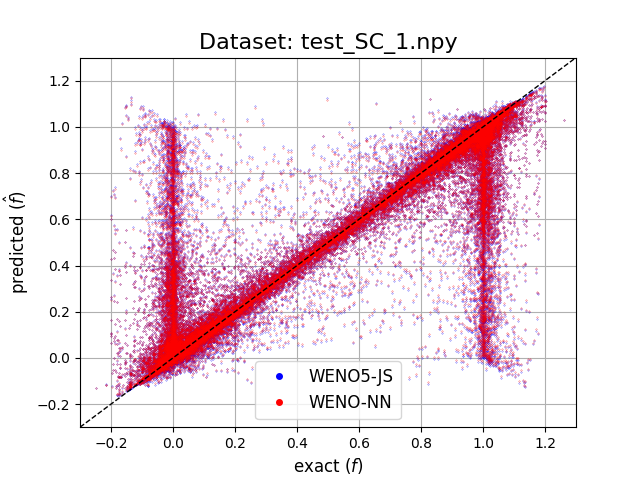
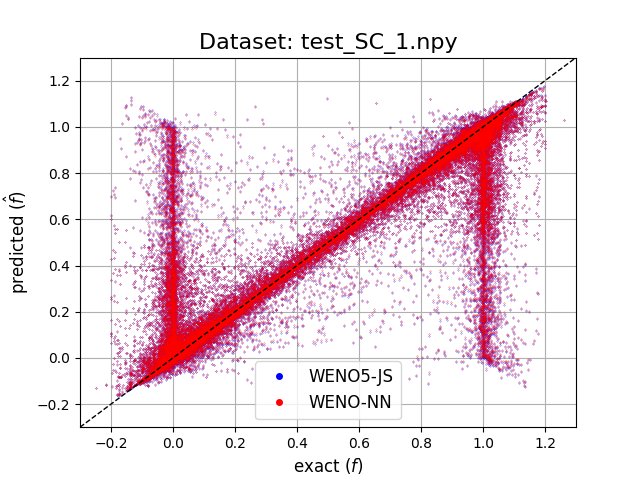
Added batch.py for TV & error recording

diff --git a/ML_model/batch.py b/ML_model/batch.py
@@ -1,0 +1,105 @@
+### Modules ###
+import numpy as np 
+import matplotlib.pyplot as plt 
+
+from train_model import *
+from advection_test import test_WENO_NN
+
+def write_log(file, err_test, is_saved, model_save):
+    if is_saved:
+        file.write("##### SAVED model: %s #####\n"%model_save)
+
+    err_test = (err_sin, TV_sin), (err_sq, TV_sq)    
+
+    file.write("Advection (sin)\n")
+    file.write("rmse: %.5e\n"%err_sin)
+    file.write("TV: %.5f\n"%TV_sin)
+
+    file.write("Advection (square)\n")
+    file.write("rmse: %.5e\n"%err_sq)
+    file.write("TV: %.5f\n"%TV_sq)
+
+    if is_saved:
+            file.write("####### SAVED model END #######\n")
+
+    file.write("\n\n")
+
+
+
+if __name__ == "__main__":
+    n_epochs = 10
+    idx = 0
+    model_save = 0
+
+    log_file = "test_log.txt"
+    file = open(log_file, "w")
+
+    data_folder = "training_data/"
+    data_file = "data_github.npy"
+    #data_file = "test_SC_1.npy"
+    f_bar, y = get_dataX(data_folder + data_file)
+
+    err_list = []
+    TV_list = []
+    
+    total_test = 100
+    for i in range(total_test):
+        model, model_id, data_func = get_model_SC()
+        X = data_func(f_bar)
+        # model traning
+        history = model.fit(X, y, batch_size=80, epochs=n_epochs, validation_split=0.2)
+
+        mse_train = history.history["root_mean_squared_error"]
+
+        model_folder = "test_batch/"
+        model_temp = "model_batch_temp.bin"
+        path_temp = model_folder + model_temp
+
+        # save temp
+        save_model(path_temp, model, model_id)
+
+        # test temp
+        (err_sin, TV_sin), (err_sq, TV_sq) = test_WENO_NN(path_temp)
+
+        err_list += [err_sq]
+        TV_list += [TV_sq]
+
+        # Save condition
+        # WENO5-JS 
+        # err_sin: 6.241e-05
+        # TV_sin: 3.9996
+
+        # err_sq: 0.11648111689410975
+        # TV_sq: 2.006
+
+        #is_sin = (err_sin < 4e-2 and TV_sin < 4.2)
+        is_square = err_sq < 0.1165 
+        is_TVB = (TV_sin < 4.1 and TV_sq < 2.03)
+
+        # 0.2400 for data_github
+        is_trained = mse_train[-1] < 0.2400 
+
+        if True: #is_square and is_TVB and is_trained:
+            model_save = "model_batch_%i.bin"%idx
+            path_save = model_folder + model_save
+            save_model(path_save, model, model_id)
+            idx += 1
+            is_saved = True
+        else:
+            is_saved = False
+
+        err_test = (err_sin, TV_sin), (err_sq, TV_sq)
+
+
+        write_log(file, err_test, is_saved, model_save)
+        file.flush()
+
+    file.close()
+
+
+    TV_info = np.array([err_list, TV_list])
+    TV_file = "git_4_lamb_3.npy"
+    TV_path = model_folder + TV_file
+
+    with open(TV_path, 'wb') as f:
+        np.save(f, TV_info)

diff --git a/ML_model/train_model.py b/ML_model/train_model.py
@@ -122,11 +122,11 @@ def get_model_SC(nf1=5, nf2=5):
     # Neural Network
     bias_init = tf.keras.initializers.RandomNormal(mean=0.0, stddev=0.005, seed=None)
 
-    l2_lambda = 6 + 10*np.random.rand()   
+    l2_lambda = 3
 
-    np1 = np.random.randint(3) + 3
-    np2 = np.random.randint(3) + 3
-    np3 = np.random.randint(3) + 3
+    np1 = 4 #np.random.randint(3) + 3
+    np2 = 4 #np.random.randint(3) + 3
+    np3 = 4 #np.random.randint(3) + 3
 
 
     NN_h1 = layers.Dense(np1, activation="relu",\
@@ -327,8 +327,8 @@ def plot_history(history):
 
 if __name__ == "__main__":
     folder = "training_data/"
-    #file_data = "data_github.npy"
     file_data = "data_github.npy"
+    #file_data = "data_github.npy"
     f_bar, y = get_dataX(folder+file_data)
     
     model, model_id, data_func = get_model_SC()

diff --git a/ML_model/view_scatter.py b/ML_model/view_scatter.py
@@ -36,11 +36,10 @@ def read_model_SC(file):
         # weight
         weight = readline(file, np.float32, n_w)
         weight = weight.reshape(dim)
-        print(weight)
+
         # bias
         if nW == 2:
             bias = readline(file, np.float32, dim[1])
-            print(bias)
         else:
             bias = []
 
@@ -180,7 +179,7 @@ if __name__ == "__main__":
     model_path = "model_batch_10.bin"
     model_id, weights, data_func = read_model(model_path)
     X = data_func(f_bar)
-'''
+
     f_NN = model_predict(model_id, weights, X)
     
     plt.plot(y, f_NN, "or", markersize=0.2, label="WENO-NN", alpha=1)
@@ -206,4 +205,3 @@ if __name__ == "__main__":
     
     #plt.savefig("test_scatter_1e-2.png")
     plt.savefig("scatter_f.png")
-'''

diff --git a/ML_model/advection_test.py b/ML_model/advection_test.py
@@ -296,8 +296,6 @@ def test_WENO_NN(model_path):
 def view_WENO_NN(model_path, T):
     model_info = read_model(model_path)
 
-    test_WENO5_JS()
-
     print("Testing... (sin)")
     err_sin, TV_sin = view_adv_NN(model_info, exact_sin, T)
     print()
@@ -307,9 +305,10 @@ def view_WENO_NN(model_path, T):
     print()
 
 if __name__ == "__main__":
-    model_folder = "test_batch/batch4/"
-    model_name = "model_batch_10.bin"
+    model_folder = "test_batch/git_3_lamb_6/"
+    model_name = "model_batch_11.bin"
     model_path = model_folder + model_name
 
+    test_WENO5_JS()
     view_WENO_NN(model_path, 50)
 

diff --git a/FDM/main.cpp b/FDM/main.cpp
@@ -23,7 +23,7 @@ int main(int argc, char *argv[])
     Solver solver = Solver(nu, xlim, nx);
 
     // WENO-NN
-    solver.init_NN("../ML_model/model_batch_10.bin");
+    solver.init_NN("../ML_model/test_batch/git_3_lamb_3/model_batch_82.bin");
     // test_model.bin 1e-100
     // test_model_SC1.bin 1e-1
     solver.run(CFL, T);
